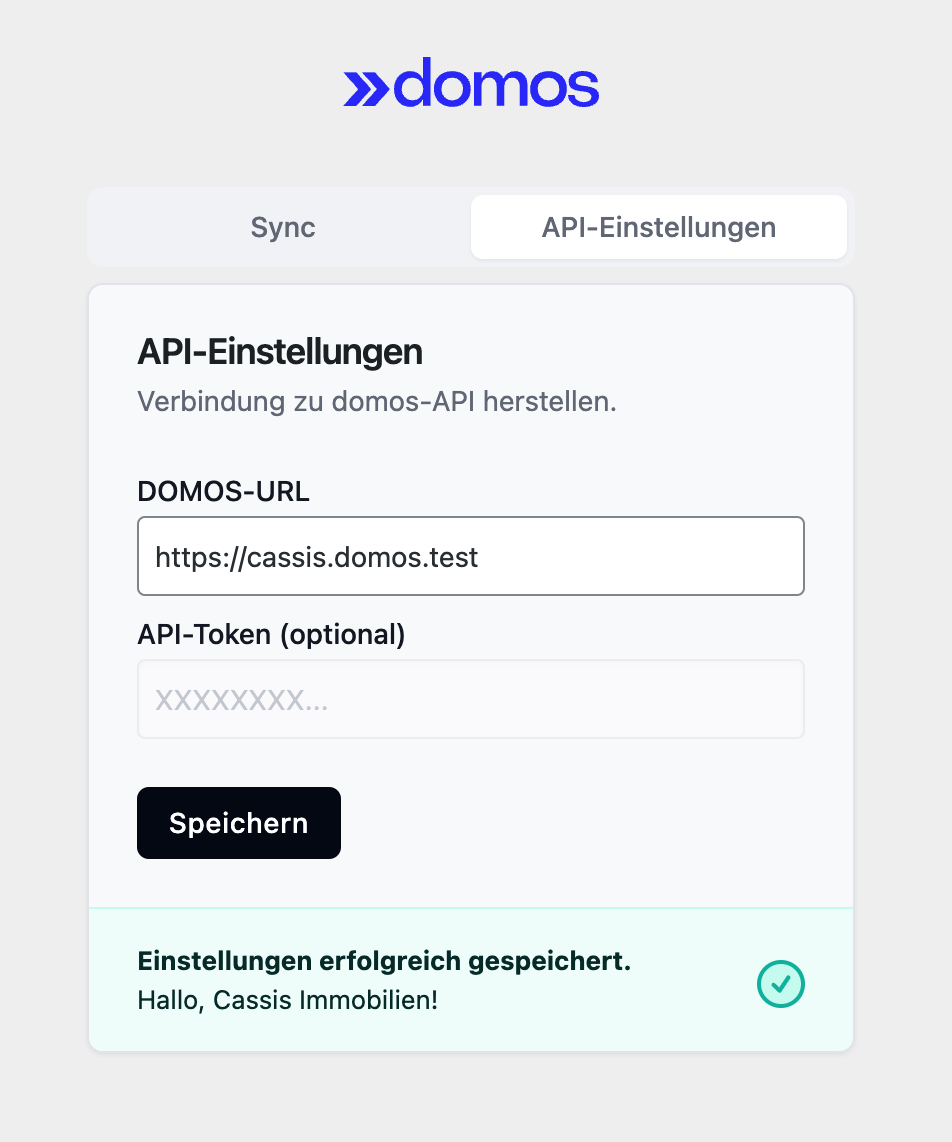
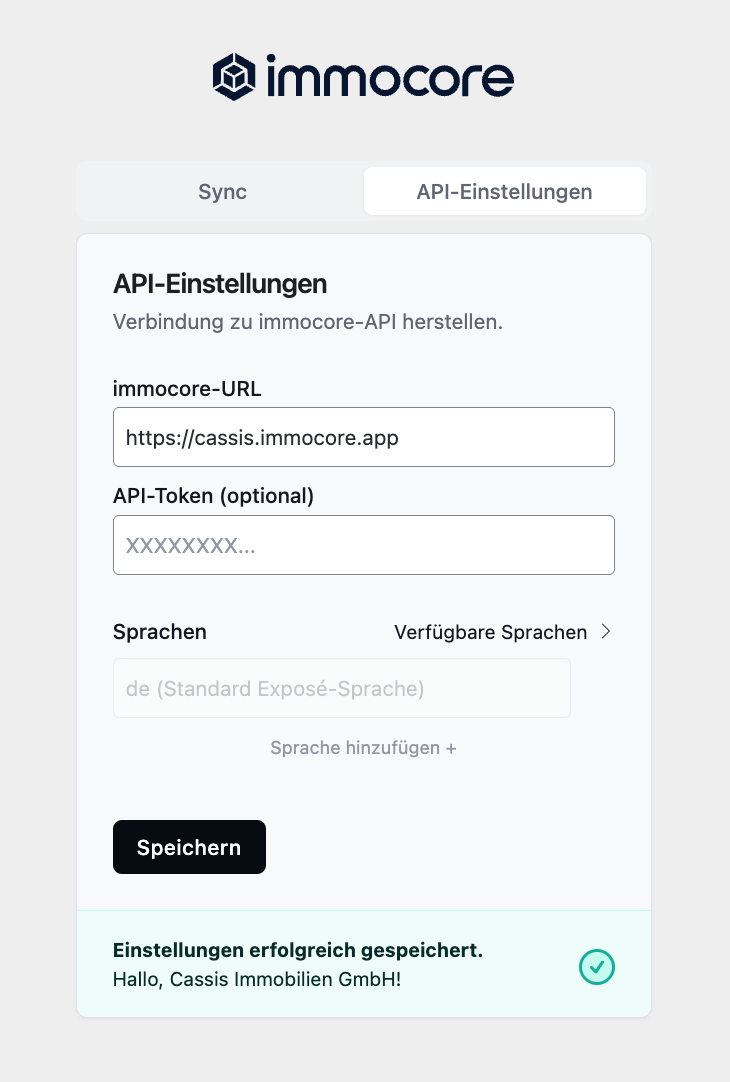
docs: update readme

diff --git a/README.md b/README.md
@@ -39,13 +39,13 @@
 
 ## Hinweis zu `domos`-Bezeichnungen
 
-Im Q1 2025 haben wir uns zu "immocore" umbenannt, und wir tauschen die Bezeichnungen in der Dokumentation kontinuierlich aus. Um Backwardscapability zu gewährleisten, behalten wir die Bezeichnungen im PHP-Code aber vorerst bei. 
+Im Q1 2025 haben wir uns zu "immocore" umbenannt, und wir tauschen die Bezeichnungen in der Dokumentation kontinuierlich aus. Um Backwards-Compatibility zu gewährleisten, behalten wir die Bezeichnungen im PHP-Code aber vorerst bei.
 
 ## Installation
 
 1. Lade das Plugin in das Verzeichnis `/wp-content/plugins/` hoch
 2. Aktiviere das Plugin "domos Core" im Menü 'Plugins' in WordPress
-3. Konfiguriere das Plugin im Menü 'domos', indem du die URL zu deiner domos-Instanz angibst
+3. Konfiguriere das Plugin im Menü 'domos', indem du die URL zu deiner immocore-Instanz angibst
 4. Füge den Shortcode `[domos-list]` in eine Seite ein, um eine Liste der Objekte anzuzeigen
 5. Syncronisiere die Objekte im Menü 'domos'
 6. Fertig! Die Objekte werden nun regelmäßig synchronisiert
@@ -54,13 +54,14 @@ Im Q1 2025 haben wir uns zu "immocore" umbenannt, und wir tauschen die Bezeichnu
 
 ## Konfiguration der Synchronisation
 
-Um die Objekte zu synchronisieren, musst du die URL deiner domos-Instanz angeben. Dies kannst du in den Einstellungen des Plugins machen.
+Um die Objekte zu synchronisieren, musst du die URL deiner immocore-Instanz angeben. Dies kannst du in den Einstellungen des Plugins machen.
 
 | Einstellung                                                 | Wert                                                                                                                     |
-|-------------------------------------------------------------|--------------------------------------------------------------------------------------------------------------------------|
-| ![Einstellungen](resources/images/docs/domos-menu-item.png) | Die domos Einstellungen findest du im WordPress-Admin-Bereich unten im Menü 'domos'.                                     |
-| ![Einstellungen](resources/images/docs/settings-2.png)      | Du kannst die URL deiner domos-Instanz hier angeben.                                                                     |
-| ![Einstellungen](resources/images/docs/settings-3.png)      | Nach dem Speichern wird die Verbindung zu deiner domos-Instanz hergestellt und gespeichert.                              |
+|:-----------------------------------------------------------:|--------------------------------------------------------------------------------------------------------------------------|
+| ![Einstellungen](resources/images/docs/immocore-menu-item.png) | Die domos Einstellungen findest du im WordPress-Admin-Bereich unten im Menü 'domos'.                                     |
+| ![Einstellungen](resources/images/docs/settings-2.png)      | Du kannst die URL deiner immocore-Instanz hier angeben.                                                                     |
+| ![Einstellungen](resources/images/docs/settings-3.png)      | Nach dem Speichern wird die Verbindung zu deiner immocore-Instanz hergestellt und gespeichert.                              |
+| ![Einstellungen](resources/images/docs/settings-6.png)      | Du kannst außerdem weitere Sprachen konfigurieren, die synchronisiert werden sollen. So kannst du übersetzte auch Inahlte & Exposés auf deiner Website anzeigen. |
 | ![Einstellungen](resources/images/docs/settings-4.png)      | Unter dem Menüpunkt "Sync" kannst du die Objekte nun synchronisieren. Dies erfolgt automatisch jeden Tag um Mitternacht. |
 | ![Einstellungen](resources/images/docs/settings-5.png)      | Wenn alles geklappt hat, siehst du, was synchronisiert wurde.                                                            |
 
@@ -373,7 +374,7 @@ add_filter('domos_should_fallback_to_default_language_expose', fn () => false);
 
 ## Hinweise
 
-- Alle Filter sollten vor der Initialisierung des DOMOS Plugins hinzugefügt werden, z.B. in `functions.php` oder einem eigenen Plugin.
+- Alle Filter sollten vor der Initialisierung des immocore Plugins hinzugefügt werden, z.B. in `functions.php` oder einem eigenen Plugin.
 - Bei der Modifizierung von Farbarrays stellen Sie bitte sicher, dass Sie die gleiche Struktur (50 bis 950) beibehalten, um Fehler zu vermeiden. Für inspiration kannst du dir die [Tailwind-Palette](https://tailwindcss.com/docs/customizing-colors#color-palette-reference) anschauen.
 - Dieses Plugin benötigt eine WordPress-Installation mit mindestens PHP 8.0. Ältere PHP-Versionen werden nicht mehr unterstützt.
 
@@ -383,7 +384,7 @@ Hier ist ein vollständiges Beispiel, das zeigt, wie alle Filter zusammen verwen
 
 ```php
 <?php
-// DOMOS Plugin Filter anpassen
+// immocore Plugin Filter anpassen
 
 // Primäre Schattierungen modifizieren
 add_filter('domos_primary_shades', fn () => [
@@ -448,4 +449,4 @@ add_action('domos_estate_escape_hatch', function (\SchemaImmo\Estate $estate) {
 );
 ```
 
-Dieses Beispiel zeigt, wie alle verfügbaren Filter verwendet werden können, um das Verhalten und Aussehen des DOMOS Plugins anzupassen.
+Dieses Beispiel zeigt, wie alle verfügbaren Filter verwendet werden können, um das Verhalten und Aussehen des immocore Plugins anzupassen.
